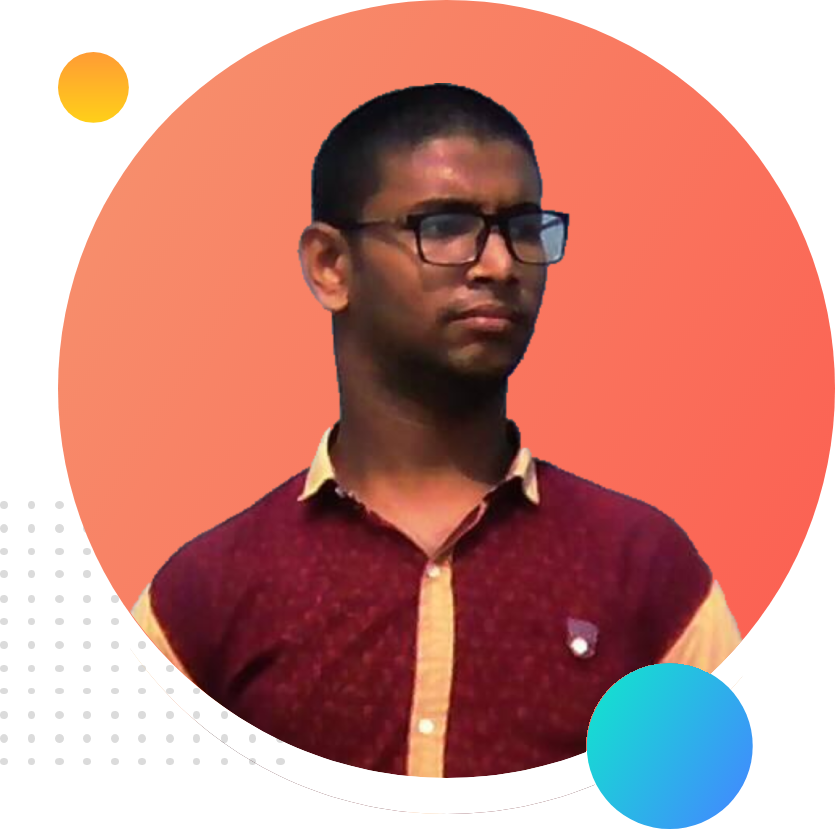
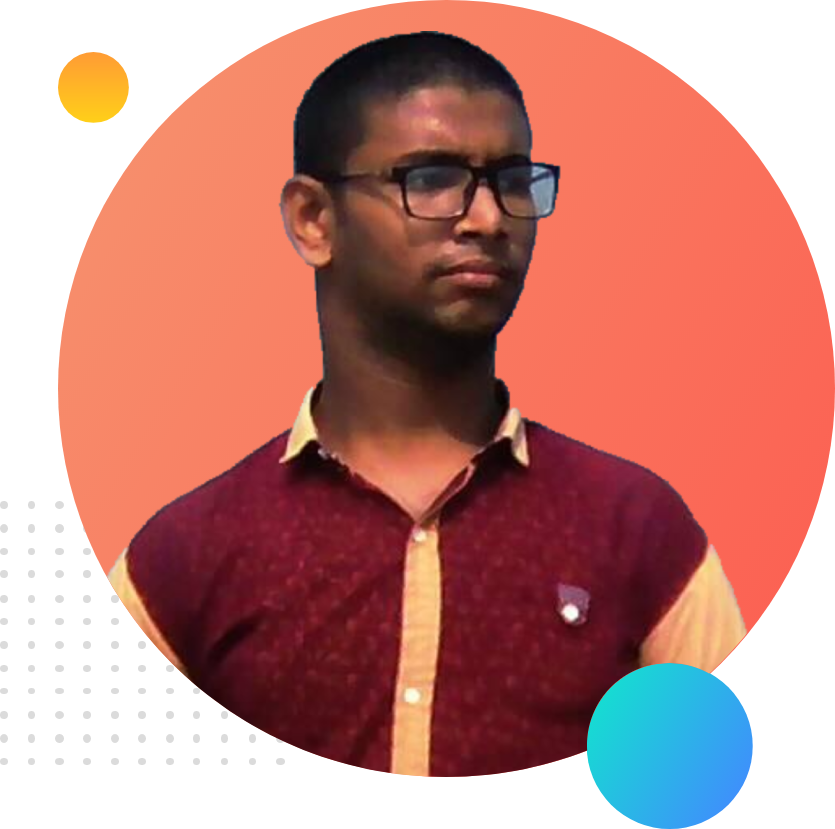
image updated

Changed region(s): [[0.1246, 0.0302, 0.903, 0.9349], [0.3737, 0.7841, 0.4048, 0.8142]]

diff --git a/index.html b/index.html
@@ -5,8 +5,22 @@
     <meta http-equiv="X-UA-Compatible" content="IE=edge">
     <meta name="viewport" content="width=device-width, initial-scale=1.0">
     <title>Shakib Mia's Website</title>
+    <link rel="stylesheet" href="style.css">
+    <link rel="preconnect" href="https://fonts.googleapis.com">
+    <link rel="preconnect" href="https://fonts.gstatic.com" crossorigin>
+    <link href="https://fonts.googleapis.com/css2?family=Montserrat:wght@500&family=Poppins&family=Roboto&display=swap" rel="stylesheet">
 </head>
 <body>
-    
+    <section class="top-banner">
+        <div class="d-flex">
+            <div class="half-width">
+                <h1>Welcome to</h1>
+                <h1><span class="orange-text">Shakib Mia</span>'s World</h1>
+            </div>
+            <div class="half-width">
+                <img src="images/profile_picture.png" alt="">
+            </div>
+        </div>
+    </section>
 </body>
 </html>

diff --git a/style.css b/style.css
@@ -1,0 +1,35 @@
+
+
+body {
+    margin: 0;
+    font-family: 'Montserrat', sans-serif;
+    font-family: 'Poppins', sans-serif;
+    font-family: 'Roboto', sans-serif;
+}
+
+.d-flex{
+    display: flex;
+}
+
+.top-banner{
+    background: url(images/top-banner.png);
+    background-repeat: no-repeat;
+    background-size: cover;
+}
+
+.half-width{
+    width: 48%;
+    padding-left: 140px;
+}
+
+img {
+    width: 80%;
+}
+
+h1 {
+    font-size: 45px;
+}
+
+.orange-text {
+    color: orange;
+}
